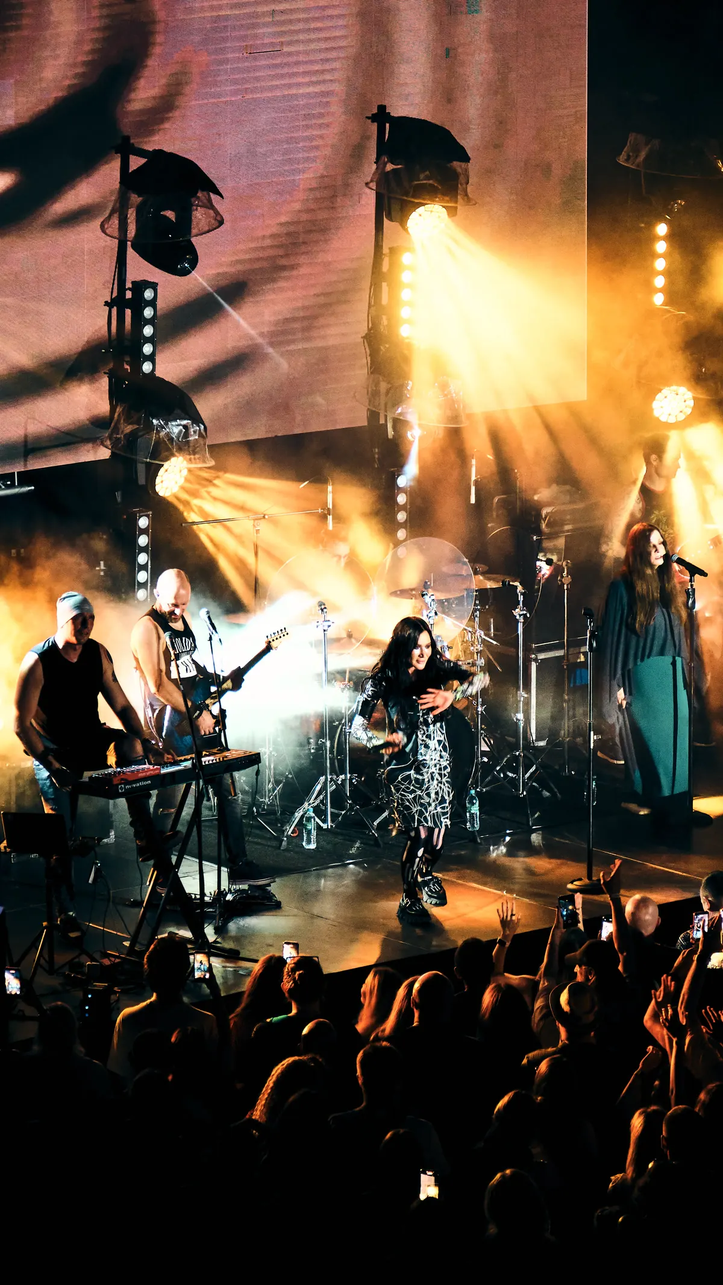
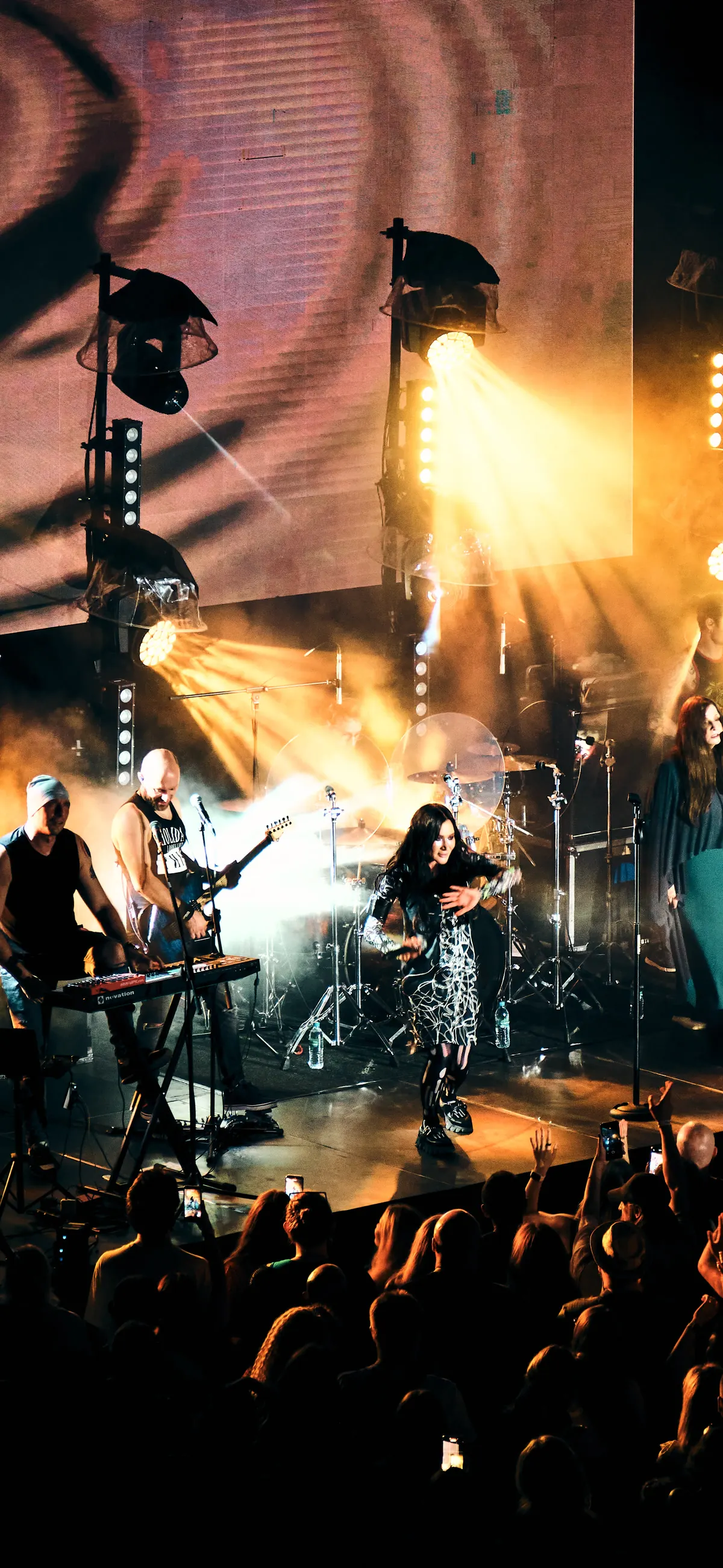
Переход отдан прокрутке, телефон снова во всю площадь
Растушёвки на первом экране больше нет: снимок лежит как есть, а
растворение происходит при прокрутке — герой закреплён (sticky) и гаснет
на месте, открывая коллаж, следом снизу поднимается афиша. Ни движущегося
стыка, ни чёрной перебивки. Затемнение под подписью ослаблено, потому что
уводить низ в чёрное больше не нужно.

На телефоне снимок опять во всю площадь. Прежняя раскладка через
aspect-ratio + max-height ломалась в Safari: он пересчитывал ширину по
пропорции и сужал блок, из-за чего справа торчала полоса коллажа.
Кадр взят 2580x5591 — ровно в пропорцию экрана телефона, поэтому cover
ничего не срезает. Окно сдвинуто влево: клавишник целиком, лица басиста
и бэк-вокалистки в кадре.

diff --git a/index.html b/index.html
@@ -37,23 +37,26 @@ a{color:inherit}
 /* ---------- герой ---------- */
 /* Фон прозрачный: под героем тот же закреплённый коллаж, что и под афишей.
    Низ фотографии не обрывается чёрной полосой, а растворяется прямо в нём.
+   Пока первый экран на месте, у снимка нет никакой растушёвки — он лежит
+   во всю площадь как есть. Переход отдан прокрутке: герой закреплён
+   (sticky) и на первом экране прокрутки растворяется на месте, открывая
+   тот же коллаж, а следом снизу поднимается афиша. Ни движущегося стыка,
+   ни чёрной перебивки.
+
    Снимок здесь — фон блока и в WebP, а не <img> с AVIF, и это вынужденно:
-   слой под маской остаётся пустым, если картинка в нём AVIF и ещё не
+   слой с прозрачностью остаётся пустым, если картинка в нём AVIF и ещё не
    декодирована к моменту первой отрисовки. Проверено на холодной загрузке:
-   с AVIF первый экран чёрный, с WebP растворение работает. Плата за это —
-   лишние ~190 КБ на десктопе и ~110 КБ на телефоне. */
-.hero{position:relative;z-index:1;height:100vh;height:100svh;min-height:520px;overflow:hidden;display:grid;isolation:isolate}
+   с AVIF первый экран чёрный, с WebP всё в порядке. */
+.hero{position:sticky;top:0;z-index:1;height:100vh;height:100svh;min-height:520px;
+  overflow:hidden;display:grid;isolation:isolate;will-change:opacity}
 .hero__ph{position:absolute;inset:0;z-index:0;
   background-position:center;background-size:cover;background-repeat:no-repeat;
   background-image:url("assets/hero/hero-tall-1200.webp")}
+/* затемнение только под подпись: низ уже не уходит в чёрное, потому что
+   растворять снимок в него больше не нужно */
 .hero__scrim{position:absolute;inset:0;z-index:1;background:
-  linear-gradient(to top,rgba(6,8,11,.95) 0%,rgba(6,8,11,.6) 22%,rgba(6,8,11,.05) 54%),
-  linear-gradient(100deg,rgba(6,8,11,.6) 0%,rgba(6,8,11,.12) 42%,transparent 70%)}
-/* растворение снимка и его затемнения — одной и той же маской, иначе
-   на стыке останется висеть полупрозрачная чёрная плёнка */
-.hero__ph,.hero__scrim{
-  -webkit-mask-image:linear-gradient(to bottom,#000 0,#000 56%,rgba(0,0,0,.5) 80%,transparent 100%);
-          mask-image:linear-gradient(to bottom,#000 0,#000 56%,rgba(0,0,0,.5) 80%,transparent 100%)}
+  linear-gradient(to top,rgba(6,8,11,.7) 0%,rgba(6,8,11,.4) 17%,rgba(6,8,11,.04) 46%),
+  linear-gradient(100deg,rgba(6,8,11,.55) 0%,rgba(6,8,11,.1) 42%,transparent 70%)}
 @media (min-width:900px){.hero__ph{background-image:url("assets/hero/hero-wide-1600.webp")}}
 @media (min-width:1500px),(min-width:900px) and (min-resolution:1.5dppx){
   .hero__ph{background-image:url("assets/hero/hero-wide-2880.webp")}
@@ -177,14 +180,6 @@ span.row__v{border-bottom:0}
         url("assets/collage-sheet-sm.webp")}
   .afisha::after{height:30px}
   .afisha{padding-top:40px}
-  /* Экран у телефона уже кадра, и cover срезал бы бока — а по бокам крайние
-     музыканты. Поэтому здесь снимок вписан по ширине: высоту задаёт его же
-     пропорция, ниже начинается коллаж. На коротких экранах высоту ограничивает
-     max-height, и тогда cover всё-таки подрезает — но только там, где иначе
-     фото заняло бы весь экран без остатка. */
-  /* затемнение повторяет ту же коробку, иначе его маска обрывается не там,
-     где кончается снимок, и на стыке остаётся тёмная ступенька */
-  .hero__ph,.hero__scrim{inset:0 0 auto 0;height:auto;aspect-ratio:2950/5241;max-height:82svh}
   .top{padding-top:16px}
   /* фон здесь едет вместе с контентом, повторить его на липкой плашке нечем —
      оставляем ей глухую заливку, иначе стык будет рваным */
@@ -447,6 +442,36 @@ span.row__v{border-bottom:0}
   sync(); upd();
   addEventListener('scroll', upd, {passive:true});
   addEventListener('resize', function(){ sync(); upd(); });
+})();
+
+// Растворение героя на прокрутке. Гасим и снимок, и подпись целиком: герой
+// закреплён, поэтому стыка, который мог бы поехать, тут просто нет. К концу
+// первого экрана он уже невидим — иначе висел бы поверх афиши и перехватывал
+// нажатия на ссылку «Афиша».
+(function(){
+  var hero = document.querySelector('.hero');
+  if (!hero) return;
+  var last = -1;
+
+  // Считаем прямо в обработчике, без requestAnimationFrame: scrollY и
+  // innerHeight не заставляют браузер пересчитывать раскладку, а opacity
+  // меняется на композиторе. Зато эффект не зависит от того, отдаёт ли
+  // вкладка кадры.
+  function paint(){
+    // на всякий случай подстраховываемся от нулевой высоты: если вкладка
+    // отдаёт 0, без нижней границы герой исчезал бы от первого же пикселя
+    var vh = innerHeight || document.documentElement.clientHeight || 700,
+        span = Math.max(240, vh * 0.8),
+        o = 1 - Math.min(1, scrollY / span);
+    if (o === last) return;
+    last = o;
+    hero.style.opacity = o;
+    hero.style.visibility = o > 0 ? '' : 'hidden';
+  }
+
+  paint();
+  addEventListener('scroll', paint, {passive:true});
+  addEventListener('resize', paint);
 })();
 </script>
 </body>
